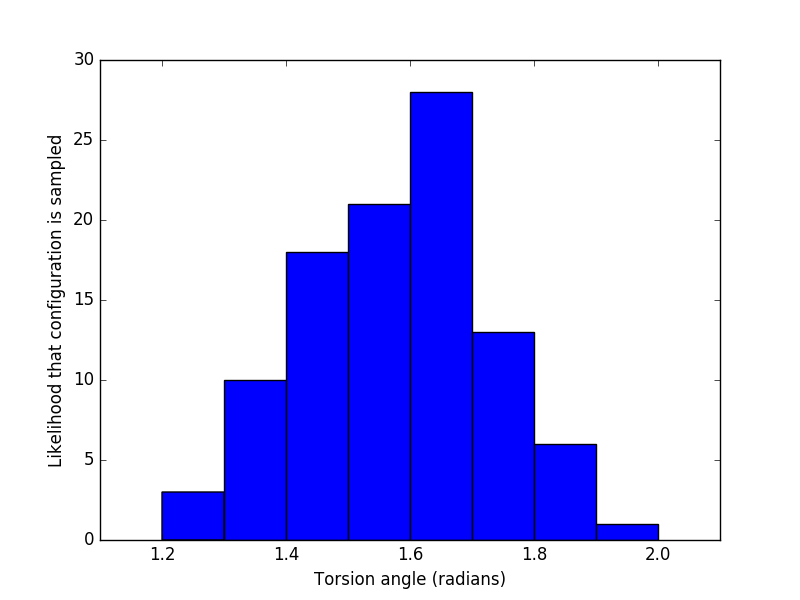
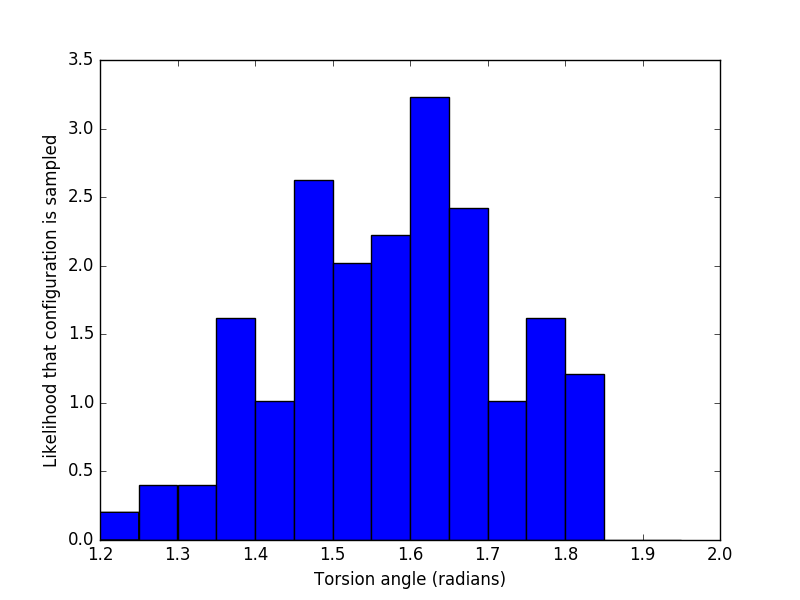
tors hist

diff --git a/single-molecule-property-generation/least_squares_fit_example.py b/single-molecule-property-generation/least_squares_fit_example.py
@@ -394,16 +394,14 @@ torsion = np.zeros([1,100],np.float64)
 
 torsion = torstimeser[0]
 
-step = 0.1
-bins = np.arange(np.around(np.min(torsion),decimals=1),np.around(np.max(torsion),decimals=1)+step,step)
+step = 0.05
+bins = np.arange(np.around(np.min(torsion),decimals=1),np.around(np.max(torsion),decimals=1),step)
 
 binplace = np.digitize(torsion, bins)
 
 print binplace
 
 likelihood = (np.bincount(binplace))/100.
-print bins
-print likelihood
 
 
 
@@ -419,7 +417,7 @@ plt.show()
 plt.savefig("some figure.png")
 
 plt.figure()
-plt.hist(torsion, bins)
+plt.hist(torsion, bins, normed=1)
 plt.ylabel('Likelihood that configuration is sampled')
 plt.xlabel('Torsion angle (radians)')
 plt.savefig('Torsion_likelihood.png')
